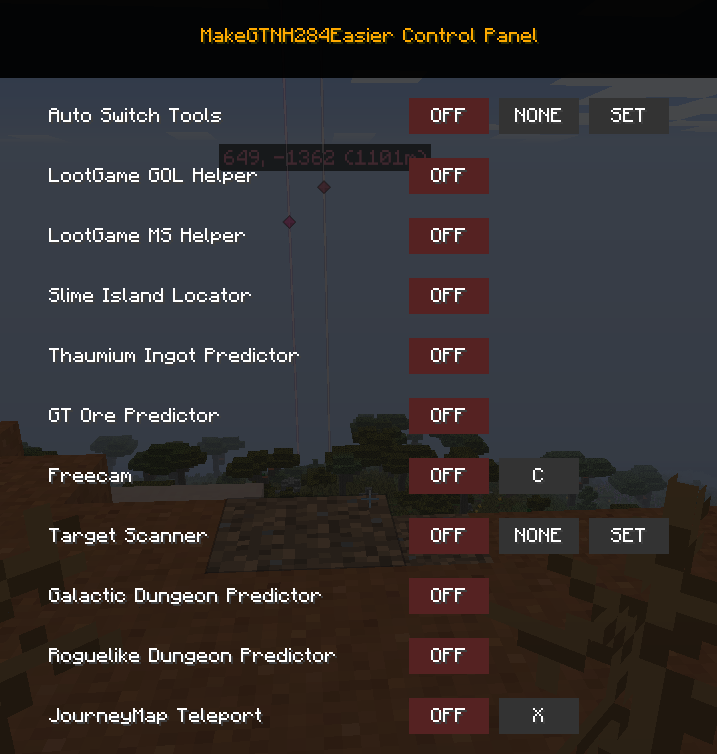
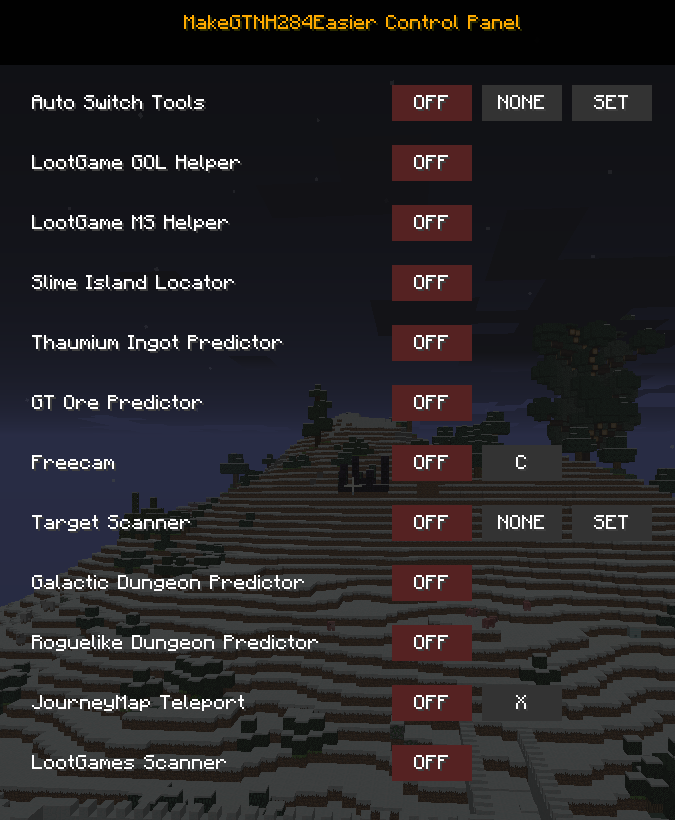
update to 1.0.2

diff --git a/README-English.md b/README-English.md
@@ -54,7 +54,7 @@ The result is obtained by calculation, the feature does not know the real answer
 
 ![MS](ReadmeResource/MS.png)
 
-4. Slime Island Locator / Galactic Dungeon Predictor / Roguelike Dungeon predictor
+4. Slime Island Locator / Galactic Dungeon Predictor / Roguelike Dungeon predictor / LootGame Scanner
 
 After enabling these features, you will enter a subpage.
 These features work similarly: you enter a seed manually, and the structure coordinates will be shown to you.
@@ -231,3 +231,11 @@ Changelog
 - Added language files. The mod now supports English.
 
 - Fixed minor bugs from version 1.0.0.
+
+1.0.2
+
+- The Slime Island Locator and Galactic Dungeon Predictor now display the five nearest points instead of only the closest one, aligning with the behavior of other prediction tools.
+
+- Added the LootGame Scanner feature for locating LootGame structures.
+
+- Fixed a minor bug in v1.0.1 where opening the Roguelike Dungeon prediction interface would toggle the JourneyMap Teleport function.

diff --git a/README.md b/README.md
@@ -54,7 +54,7 @@ Make GTNH Easier
 
 ![MS](ReadmeResource/MS.png)
 
-4. 史莱姆岛定位 / 星系地牢预测 / 冒险地牢预测
+4. 史莱姆岛定位 / 星系地牢预测 / 冒险地牢预测 / LootGame预测
 
 开启这些功能后会进入子页面，操作逻辑一致：手动输入地图种子，即可获取结构坐标。
 
@@ -232,3 +232,9 @@ English: Special thanks to the GTNH team for their incredible dedication. More i
 1.0.1->新增了lang文件，现在可以支持英文了
 
 1.0.1->修复了1.0.0的一点点小bug
+
+1.0.2->现在史莱姆空岛预测和星系地牢的预测不再只输出一个最近的点了，而是会输出最近的五个点，如同其他的预测脚本一样
+
+1.0.2->新增了寻找LootGame的功能
+
+1.0.2->修复了1.0.1中的一个小bug，进入预测冒险地牢的界面时，会意外的开关“旅行地图传送”功能的BUG
